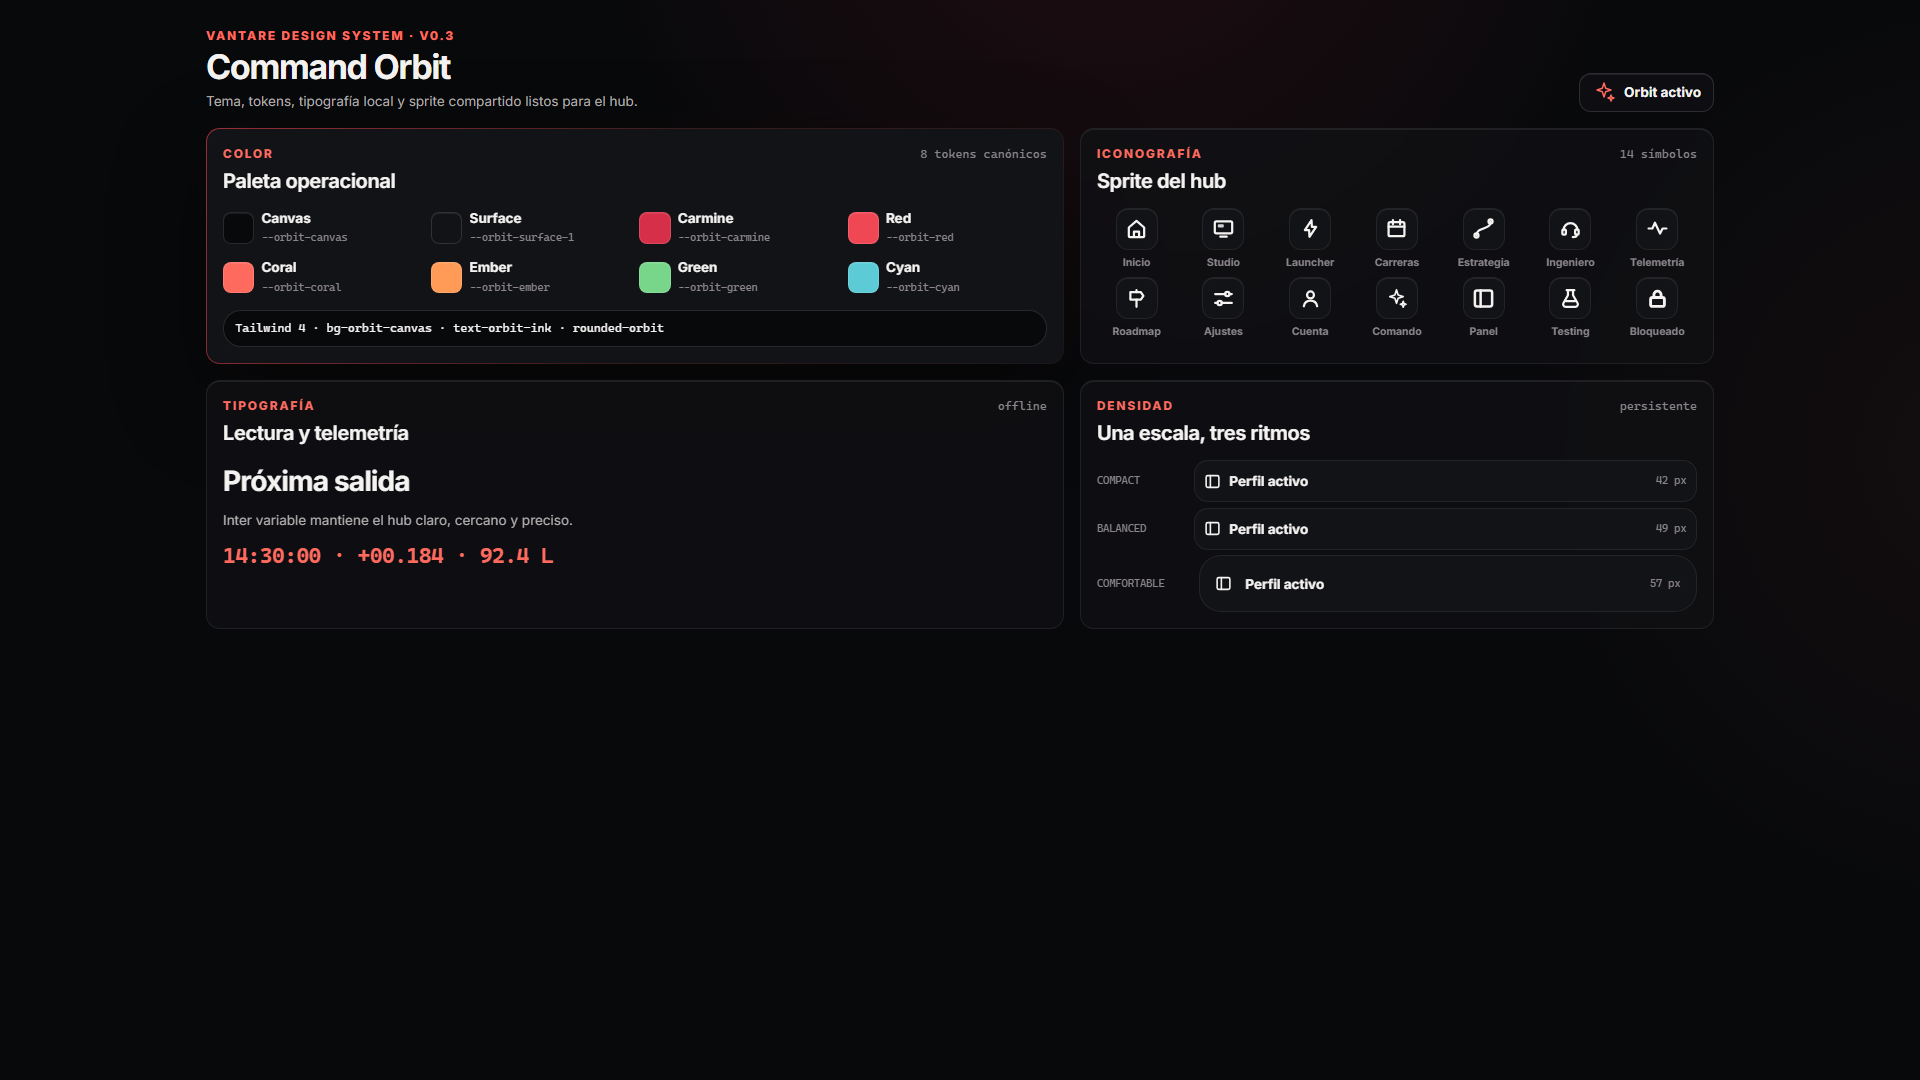
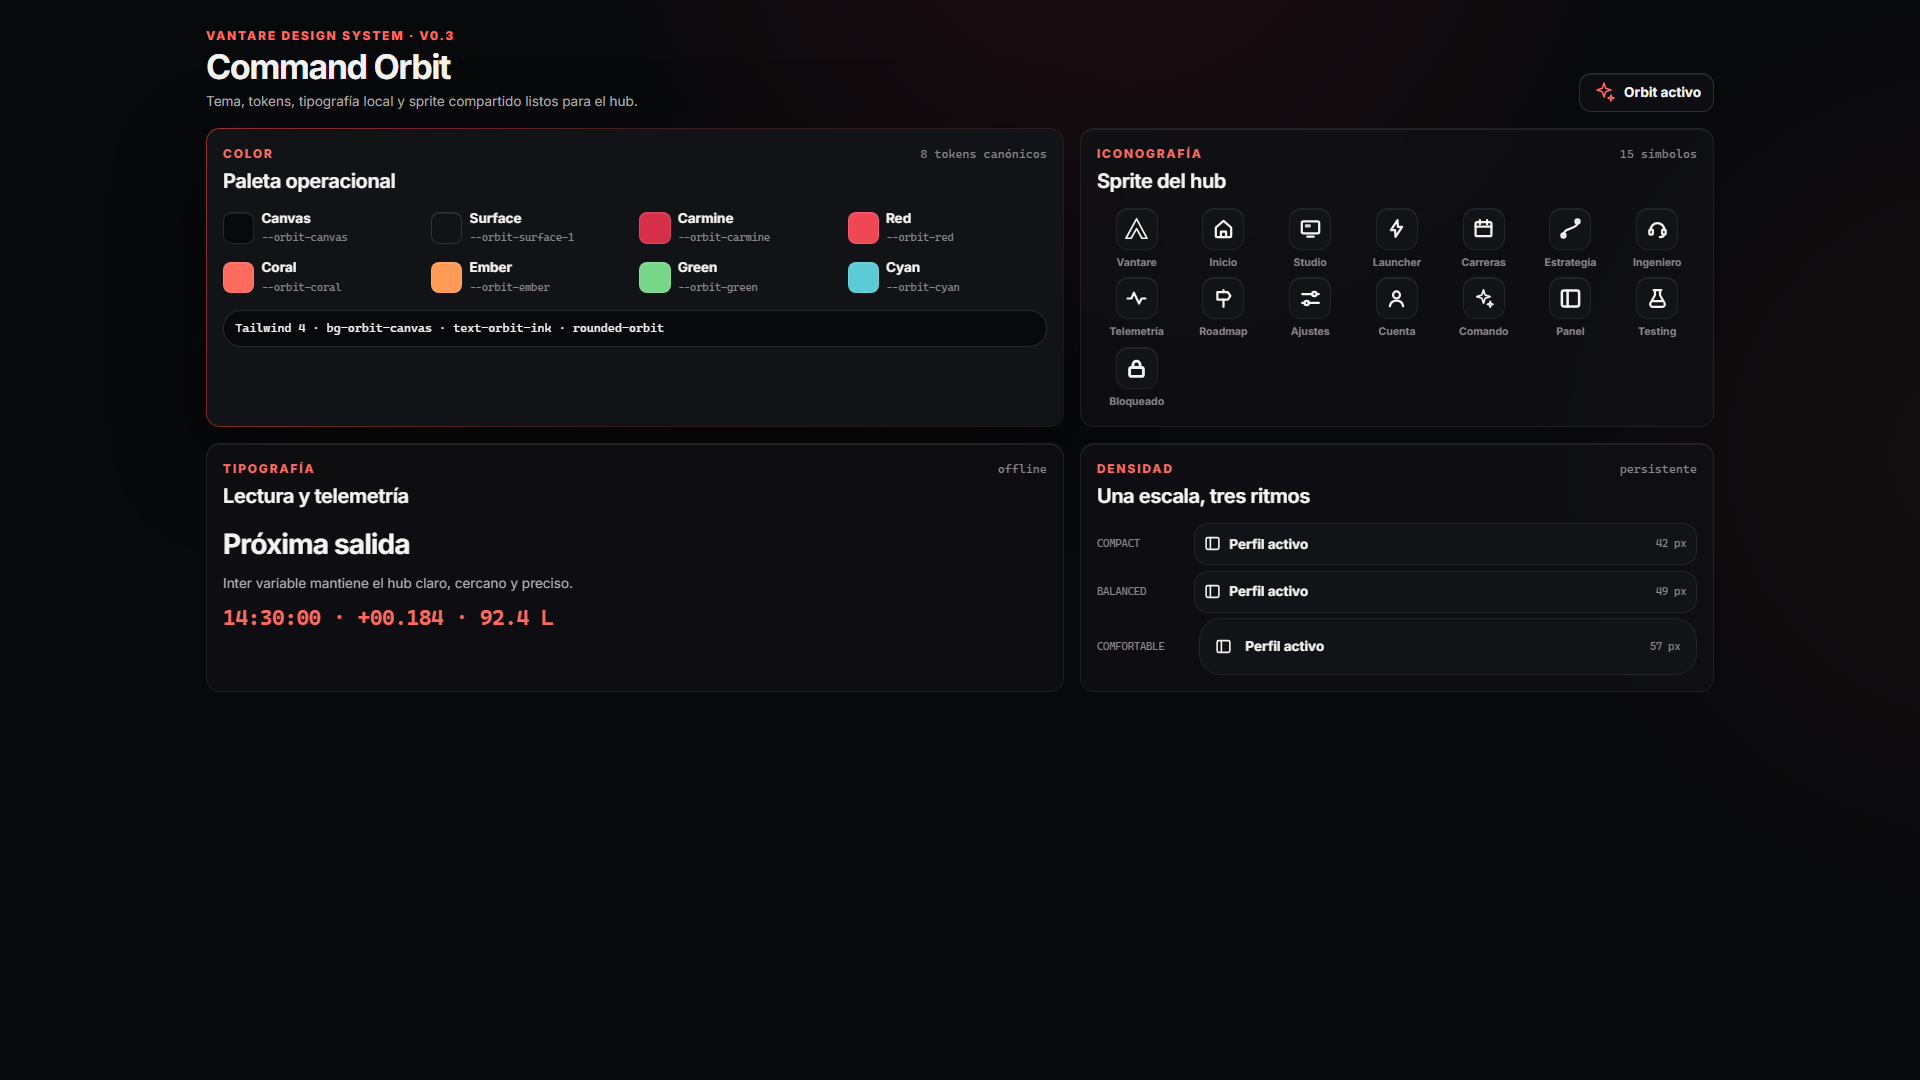
feat(hub): Orbit rail — icono de Inicio con la marca Vantare
El botón de Inicio usaba `i-inicio`, una casita genérica. Pasa a llevar la
marca de Vantare: el sprite gana `i-vantare`, el chevrón ‘A’ sin travesaño del
logotipo trazado como contorno cerrado con las reglas del resto del sprite
(`stroke="currentColor"`, trazo heredado 1.75, sin relleno, uniones redondas).

Caja 24 —como `i-comando`— y no 18: con caja 18 el trazo relativo se come el
hueco interior del chevrón y a 23 px la ‘A’ se cierra en un triángulo.

La losa de marca de la cabecera del rail sigue con el PNG a color, así que el
rail no repite el mismo dibujo: arriba la marca llena en carmín, abajo el
icono de línea que se ilumina con la barra de activo.

diff --git a/vantare-v2/frontend/src/orbit-tokens-harness.tsx b/vantare-v2/frontend/src/orbit-tokens-harness.tsx
@@ -21,6 +21,7 @@ const colors = [
 ] as const;
 
 const icons: { name: IconName; label: string }[] = [
+  { name: "i-vantare", label: "Vantare" },
   { name: "i-inicio", label: "Inicio" },
   { name: "i-studio", label: "Studio" },
   { name: "i-launcher", label: "Launcher" },
@@ -86,7 +87,7 @@ export function Harness() {
               <p className="orbit-harness__eyebrow">Iconografía</p>
               <h2>Sprite del hub</h2>
             </div>
-            <span className="orbit-harness__meta">14 símbolos</span>
+            <span className="orbit-harness__meta">15 símbolos</span>
           </div>
           <div className="orbit-harness__icons" data-testid="orbit-icon-grid">
             {icons.map((icon) => (

diff --git a/vantare-v2/frontend/src/hub/orbit/views.ts b/vantare-v2/frontend/src/hub/orbit/views.ts
@@ -79,7 +79,8 @@ export function planLabelOf(access: AccessContext): string {
 
 /** Orden fijo del rail (`03-shell-y-layout.md § 3.2`). */
 export const RAIL_ORDER: { id: ViewId; icon: IconName }[] = [
-  { id: "inicio", icon: "i-inicio" },
+  // Inicio lleva la marca de Vantare, no una casita (briefing rail).
+  { id: "inicio", icon: "i-vantare" },
   { id: "studio", icon: "i-studio" },
   { id: "launcher", icon: "i-launcher" },
   { id: "carreras", icon: "i-carreras" },

diff --git a/vantare-v2/frontend/src/ui/orbit/Icon.tsx b/vantare-v2/frontend/src/ui/orbit/Icon.tsx
@@ -1,6 +1,7 @@
 import spriteUrl from "../../assets/orbit-icons.svg?no-inline";
 
 export type IconName =
+  | "i-vantare"
   | "i-inicio"
   | "i-studio"
   | "i-launcher"
